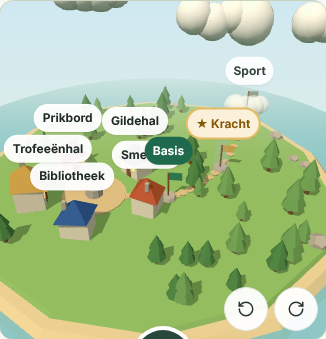
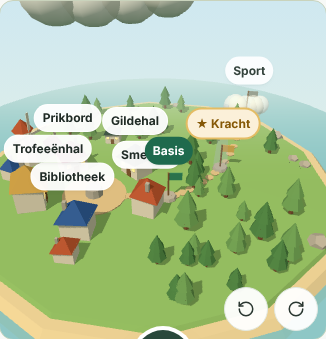
Village grows with progress: cottages per 5 workouts, boss pennants, windmill, fields, hero statue and lighthouse
Cosmetic only and never shrinks; a line under the village says what stands and the next step.

Claude-Session: https://claude.ai/code/session_01LX8STJNNDwUxbGDdeQr5p6

diff --git a/web/src/components/patient/Village3D.tsx b/web/src/components/patient/Village3D.tsx
@@ -5,6 +5,7 @@ import { OrbitControls } from 'three/examples/jsm/controls/OrbitControls.js';
 import { RotateCcw, RotateCw } from 'lucide-react';
 import { useI18n } from '@/lib/i18n';
 import { cn } from '@/lib/cn';
+import type { VillageGrowth } from '@shared/villageGrowth';
 
 /**
  * The village and the rehab path as a small 3D island (three.js, loaded only on the world map).
@@ -14,7 +15,7 @@ import { cn } from '@/lib/cn';
 
 export type VillageZone = { no: number; status: 'done' | 'current' | 'locked'; name: string };
 export type VillageBuilding = { key: string; label: string; to: string };
-type Props = { zones: VillageZone[]; heroZoneNo: number | null; buildings: VillageBuilding[]; onZone: (no: number) => void; heroColor?: string; className?: string };
+type Props = { zones: VillageZone[]; heroZoneNo: number | null; buildings: VillageBuilding[]; onZone: (no: number) => void; heroColor?: string; growth?: VillageGrowth; className?: string };
 
 const PALETTE = {
   grass: 0x8fbf6a, grassDark: 0x6e9e52, sand: 0xe6d3a3, water: 0x7cc4d8, path: 0xd9c08f, stone: 0xb8b2a6,
@@ -91,13 +92,13 @@ function rng(seed: number) {
   return () => ((s = (s * 16807) % 2147483647) - 1) / 2147483646;
 }
 
-export default function Village3D({ zones, heroZoneNo, buildings, onZone, heroColor = '#e4bc63', className }: Props) {
+export default function Village3D({ zones, heroZoneNo, buildings, onZone, heroColor = '#e4bc63', growth, className }: Props) {
   const { t } = useI18n();
   const host = useRef<HTMLDivElement>(null);
   const labels = useRef<Map<string, HTMLElement>>(new Map());
   const turnRef = useRef<(deg: number) => void>(() => {});
   const [state, setState] = useState<'ready' | 'nogl'>(() => (webglOk() ? 'ready' : 'nogl'));
-  const key = JSON.stringify([zones, heroZoneNo, buildings.map((b) => b.key)]);
+  const key = JSON.stringify([zones, heroZoneNo, buildings.map((b) => b.key), growth, heroColor]);
 
   useEffect(() => {
     const el = host.current;
@@ -206,8 +207,114 @@ export default function Village3D({ zones, heroZoneNo, buildings, onZone, heroCo
       }
     });
 
-    // Trees and rocks, away from the square and the path.
-    const near = (x: number, z: number) => Math.hypot(x + 2.6, z - 1.2) < 3.6 || pts.some((p) => Math.hypot(x - p.x, z - p.z) < 1.2) || Math.hypot(x, z) > 7.3;
+    // What the patient built so far (villageGrowth): cottages, pennants, windmill, fields, statue, lighthouse.
+    const taken: [number, number, number][] = [];
+    let blades: THREE.Group | null = null;
+    let lamp: THREE.Group | null = null;
+    if (growth) {
+      const pathNear = (x: number, z: number) => pts.some((p) => Math.hypot(x - p.x, z - p.z) < 1.3) || curve.getPoints(30).some((p) => Math.hypot(x - p.x, z - p.z) < 0.9);
+      for (let i = 0, made = 0; i < 80 && made < growth.houses; i++) {
+        const a = Math.PI * 0.55 + i * 0.62;
+        const r = 4.3 + (i % 3) * 0.55;
+        const x = -2.6 + Math.cos(a) * r;
+        const z = 1.2 + Math.sin(a) * r * 0.85;
+        if (Math.hypot(x, z) > 7 || pathNear(x, z) || taken.some(([tx, tz, tr]) => Math.hypot(x - tx, z - tz) < tr + 0.8)) continue;
+        const roofs = [0xb5532c, 0x2759a0, 0x8e3b5f, 0x29483c, 0xc9a14a];
+        const h = house(roofs[made % roofs.length], 0.62);
+        h.position.set(x, 0.2, z);
+        h.lookAt(-2.6, 0.2, 1.2);
+        world.add(h);
+        taken.push([x, z, 0.7]);
+        made++;
+      }
+      for (let i = 0; i < growth.pennants; i++) {
+        const a = (i / Math.max(growth.pennants, 1)) * Math.PI * 2;
+        const pole = new THREE.Group();
+        const stick = new THREE.Mesh(new THREE.CylinderGeometry(0.025, 0.025, 0.9, 5), mat(PALETTE.wood));
+        stick.position.y = 0.45;
+        const tri = new THREE.Mesh(new THREE.ConeGeometry(0.14, 0.34, 3), mat([0xc9a14a, 0xb5532c, 0x2759a0, 0x8e3b5f][i % 4]));
+        tri.rotation.z = -Math.PI / 2;
+        tri.position.set(0.17, 0.78, 0);
+        pole.add(stick, tri);
+        pole.position.set(-2.6 + Math.cos(a) * 1.55, 0.22, 1.2 + Math.sin(a) * 1.55);
+        world.add(pole);
+        flags.push(tri);
+      }
+      if (growth.windmill) {
+        const mill = new THREE.Group();
+        const tower = new THREE.Mesh(new THREE.CylinderGeometry(0.35, 0.55, 1.8, 8), mat(PALETTE.wall));
+        tower.position.y = 0.9;
+        const cap = new THREE.Mesh(new THREE.ConeGeometry(0.5, 0.55, 8), mat(0xb5532c));
+        cap.position.y = 2.05;
+        blades = new THREE.Group();
+        for (let k = 0; k < 4; k++) {
+          const b = new THREE.Mesh(new THREE.BoxGeometry(0.14, 1.1, 0.03), mat(0xf6efe2));
+          b.position.y = 0.55;
+          const arm = new THREE.Group();
+          arm.add(b);
+          arm.rotation.z = (k * Math.PI) / 2;
+          blades.add(arm);
+        }
+        blades.position.set(0, 1.6, 0.42);
+        mill.add(tower, cap, blades);
+        mill.position.set(-6.0, 0.2, -1.6);
+        mill.lookAt(0, 0.2, 2);
+        mill.traverse((o) => { o.castShadow = true; });
+        world.add(mill);
+        taken.push([-6.0, -1.6, 1]);
+      }
+      if (growth.fields) {
+        const stripes = [0xd9b65a, 0x9cc46b, 0xd9b65a, 0x9cc46b];
+        stripes.forEach((c, k) => {
+          const f = new THREE.Mesh(new THREE.BoxGeometry(1.8, 0.05, 0.38), mat(c));
+          f.position.set(-4.6, 0.23, 4.5 + k * 0.42);
+          f.receiveShadow = true;
+          world.add(f);
+        });
+        taken.push([-4.6, 5.1, 1.3]);
+      }
+      if (growth.statue) {
+        const st = new THREE.Group();
+        const ped = new THREE.Mesh(new THREE.BoxGeometry(0.45, 0.35, 0.45), mat(PALETTE.stone));
+        ped.position.y = 0.4;
+        const goldM = mat(new THREE.Color(heroColor).getHex(), { metalness: 0.7, roughness: 0.3 });
+        const body = new THREE.Mesh(new THREE.CylinderGeometry(0.1, 0.14, 0.5, 8), goldM);
+        body.position.y = 0.83;
+        const head = new THREE.Mesh(new THREE.SphereGeometry(0.1, 10, 8), goldM);
+        head.position.y = 1.16;
+        const arm = new THREE.Mesh(new THREE.CylinderGeometry(0.035, 0.035, 0.45, 6), goldM);
+        arm.position.set(0.14, 1.12, 0);
+        arm.rotation.z = -0.4;
+        st.add(ped, body, head, arm);
+        st.position.set(-2.6 + 0.75, 0.2, 1.2 - 0.6);
+        st.traverse((o) => { o.castShadow = true; });
+        world.add(st);
+      }
+      if (growth.lighthouse) {
+        const lh = new THREE.Group();
+        const tower = new THREE.Mesh(new THREE.CylinderGeometry(0.28, 0.45, 2.4, 10), mat(0xf6efe2));
+        tower.position.y = 1.2;
+        const stripe = new THREE.Mesh(new THREE.CylinderGeometry(0.36, 0.38, 0.35, 10), mat(0xb5532c));
+        stripe.position.y = 1.2;
+        lamp = new THREE.Group();
+        const glow = new THREE.Mesh(new THREE.SphereGeometry(0.22, 12, 10), new THREE.MeshStandardMaterial({ color: 0xfff1b8, emissive: 0xffd36b, emissiveIntensity: 1.2 }));
+        const beam = new THREE.Mesh(new THREE.ConeGeometry(0.4, 2.2, 12, 1, true), new THREE.MeshBasicMaterial({ color: 0xfff1b8, transparent: true, opacity: 0.25, side: THREE.DoubleSide, depthWrite: false }));
+        beam.rotation.z = Math.PI / 2;
+        beam.position.x = 1.1;
+        lamp.add(glow, beam);
+        lamp.position.y = 2.55;
+        const roofL = new THREE.Mesh(new THREE.ConeGeometry(0.32, 0.4, 10), mat(0xb5532c));
+        roofL.position.y = 2.95;
+        lh.add(tower, stripe, lamp, roofL);
+        lh.position.set(5.9, 0.2, 3.9);
+        lh.traverse((o) => { o.castShadow = true; });
+        world.add(lh);
+        taken.push([5.9, 3.9, 0.8]);
+      }
+    }
+
+    // Trees and rocks, away from the square, the path and what was built.
+    const near = (x: number, z: number) => Math.hypot(x + 2.6, z - 1.2) < 3.6 || pts.some((p) => Math.hypot(x - p.x, z - p.z) < 1.2) || Math.hypot(x, z) > 7.3 || taken.some(([tx, tz, tr]) => Math.hypot(x - tx, z - tz) < tr + 0.5);
     for (let i = 0, placed = 0; i < 400 && placed < 34; i++) {
       const a = R() * Math.PI * 2;
       const r = 2 + R() * 5.5;
@@ -235,7 +342,11 @@ export default function Village3D({ zones, heroZoneNo, buildings, onZone, heroCo
         puff.position.set(k * 0.7, R() * 0.3, R() * 0.4);
         c.add(puff);
       }
-      c.position.set(-9 + i * 5, 6 + R() * 1.5, -6 + R() * 6);
+      // High up on a ring around the island, so a cloud never drifts in front of the camera.
+      c.userData.angle = (i / 4) * Math.PI * 2 + R();
+      c.userData.radius = 8 + R() * 2;
+      c.position.set(Math.cos(c.userData.angle) * c.userData.radius, 8.6 + R() * 1.2, Math.sin(c.userData.angle) * c.userData.radius);
+      c.scale.setScalar(0.8);
       scene.add(c);
       clouds.push(c);
     }
@@ -305,10 +416,16 @@ export default function Village3D({ zones, heroZoneNo, buildings, onZone, heroCo
       const tt = clock.getElapsedTime();
       if (!reduce) {
         flags.forEach((f, i) => (f.rotation.y = Math.sin(tt * 2 + i) * 0.25));
-        clouds.forEach((c, i) => (c.position.x = ((c.position.x + 0.004 * (i + 1) + 12) % 24) - 12));
+        clouds.forEach((c, i) => {
+          const a = c.userData.angle + tt * 0.01 * (1 + i * 0.2);
+          c.position.x = Math.cos(a) * c.userData.radius;
+          c.position.z = Math.sin(a) * c.userData.radius;
+        });
         fogs.forEach((f, i) => (f.position.y = Math.sin(tt * 0.8 + i) * 0.08));
         if (beacon) (beacon.material as THREE.MeshBasicMaterial).opacity = 0.25 + Math.sin(tt * 2.2) * 0.12;
         water.position.y = -0.35 + Math.sin(tt * 0.9) * 0.02;
+        if (blades) blades.rotation.z = tt * 0.9;
+        if (lamp) lamp.rotation.y = tt * 0.8;
       }
       controls.update();
       renderer.render(scene, camera);

diff --git a/web/src/pages/patient/WorldMapPage.tsx b/web/src/pages/patient/WorldMapPage.tsx
@@ -16,6 +16,7 @@ import type { HeroState } from '@/lib/types';
 import { GuildRaidCard } from '@/components/patient/GuildRaid';
 import { useHero } from '@/pages/patient/HeroPages';
 import { levelTier } from '@shared/hero';
+import { villageGrowth } from '@shared/villageGrowth';
 // three.js only loads on this page.
 const Village3D = lazy(() => import('@/components/patient/Village3D'));
 
@@ -82,6 +83,11 @@ export function WorldMapPage() {
     });
   }, [data, heroQ.data]);
   const buildings = villageBuildings({ hero: true, atlas: true, mission: true, guild: true });
+  // The village grows with completed workouts, defeated bosses and the hero level (cosmetic only).
+  const growth = useMemo(() => {
+    if (!data || !heroQ.data?.level) return null;
+    return villageGrowth({ workouts: data.zones.reduce((n, z) => n + z.nodes, 0), bossesDefeated: heroQ.data.weekly?.bossesDefeated ?? 0, level: heroQ.data.level.level });
+  }, [data, heroQ.data]);
 
   if (world.isError) return <ErrorState error={world.error} onRetry={() => world.refetch()} />;
   if (!data) {
@@ -124,8 +130,10 @@ export function WorldMapPage() {
             buildings={buildings.map((b) => ({ key: b.key, to: b.to, label: t(VILLAGE_LABEL[b.key][0], VILLAGE_LABEL[b.key][1]) }))}
             onZone={(no) => setZoneNo(no)}
             heroColor={heroQ.data?.level ? levelTier(heroQ.data.level.level).glow : undefined}
+            growth={growth ?? undefined}
           />
         </Suspense>
+        {growth && <VillageGrowthLine g={growth} />}
       </section>
 
       <section aria-labelledby="village-heading" className="overflow-hidden rounded-2xl border border-[#C9D3BC] bg-[#E7EFE3]">
@@ -429,4 +437,30 @@ function heroLook(d: HeroState) {
     body: d.metrics ? bodyShape(d.metrics, d.hero!.frame) : null,
     photo: d.customPhoto ?? null,
   };
+}
+
+/** One line under the 3D village: what has been built and the next step. */
+function VillageGrowthLine({ g }: { g: ReturnType<typeof villageGrowth> }) {
+  const { t } = useI18n();
+  const built = [
+    g.houses > 0 && t(`${g.houses} ${g.houses === 1 ? 'huisje' : 'huisjes'}`, `${g.houses} ${g.houses === 1 ? 'cottage' : 'cottages'}`),
+    g.pennants > 0 && t(`${g.pennants} ${g.pennants === 1 ? 'bazenvlag' : 'bazenvlaggen'}`, `${g.pennants} boss ${g.pennants === 1 ? 'pennant' : 'pennants'}`),
+    g.windmill && t('molen', 'windmill'),
+    g.fields && t('akkers', 'fields'),
+    g.statue && t('standbeeld', 'statue'),
+    g.lighthouse && t('vuurtoren', 'lighthouse'),
+  ].filter(Boolean) as string[];
+  const name = (k: NonNullable<typeof g.next>['kind']) => ({ house: t('een huisje', 'a cottage'), windmill: t('de molen', 'the windmill'), fields: t('akkers', 'fields'), statue: t('een standbeeld van je held', 'a statue of your hero'), lighthouse: t('de vuurtoren', 'the lighthouse') })[k];
+  const next = g.next
+    ? g.next.workouts !== undefined
+      ? t(`Nog ${g.next.workouts} ${g.next.workouts === 1 ? 'training' : 'trainingen'} tot ${name(g.next.kind)}.`, `${g.next.workouts} more ${g.next.workouts === 1 ? 'workout' : 'workouts'} to ${name(g.next.kind)}.`)
+      : t(`Nog ${g.next.levels} ${g.next.levels === 1 ? 'level' : 'levels'} tot ${name(g.next.kind)}.`, `${g.next.levels} more ${g.next.levels === 1 ? 'level' : 'levels'} to ${name(g.next.kind)}.`)
+    : t('Je dorp is helemaal af!', 'Your village is complete!');
+  return (
+    <p className="mt-2 rounded-xl bg-[#F3F7F1] px-3 py-2 text-[13.5px] leading-snug text-ink-800" data-testid="village-growth">
+      <strong>{t('Je dorp groeit', 'Your village grows')}</strong>
+      {built.length > 0 ? `: ${built.join(', ')}. ` : t(': nog leeg. ', ': still empty. ')}
+      {next}
+    </p>
+  );
 }

diff --git a/shared/villageGrowth.ts b/shared/villageGrowth.ts
@@ -1,0 +1,49 @@
+/**
+ * The 3D village grows with what the patient already did. Purely cosmetic: it never unlocks a zone
+ * and never shrinks (a rest day or pain costs nothing).
+ */
+export type VillageProgress = { workouts: number; bossesDefeated: number; level: number };
+
+export const HOUSE_EVERY = 5; // one extra cottage per 5 completed workouts
+export const MAX_HOUSES = 10;
+export const MAX_PENNANTS = 8;
+
+export type VillageGrowth = {
+  houses: number;
+  pennants: number;
+  windmill: boolean;
+  fields: boolean;
+  statue: boolean;
+  lighthouse: boolean;
+  /** What the next step is and how far away, or null when everything is built. */
+  next: { kind: 'house' | 'windmill' | 'fields' | 'statue' | 'lighthouse'; workouts?: number; levels?: number } | null;
+};
+
+export const WINDMILL_AT = 15; // workouts
+export const FIELDS_AT = 30; // workouts
+export const STATUE_LEVEL = 10;
+export const LIGHTHOUSE_LEVEL = 20;
+
+export function villageGrowth(p: VillageProgress): VillageGrowth {
+  const w = Math.max(0, Math.floor(p.workouts));
+  const houses = Math.min(MAX_HOUSES, Math.floor(w / HOUSE_EVERY));
+  const g: VillageGrowth = {
+    houses,
+    pennants: Math.min(MAX_PENNANTS, Math.max(0, p.bossesDefeated)),
+    windmill: w >= WINDMILL_AT,
+    fields: w >= FIELDS_AT,
+    statue: p.level >= STATUE_LEVEL,
+    lighthouse: p.level >= LIGHTHOUSE_LEVEL,
+    next: null,
+  };
+  const options: NonNullable<VillageGrowth['next']>[] = [];
+  if (houses < MAX_HOUSES) options.push({ kind: 'house', workouts: HOUSE_EVERY * (houses + 1) - w });
+  if (!g.windmill) options.push({ kind: 'windmill', workouts: WINDMILL_AT - w });
+  if (!g.fields) options.push({ kind: 'fields', workouts: FIELDS_AT - w });
+  if (!g.statue) options.push({ kind: 'statue', levels: STATUE_LEVEL - p.level });
+  else if (!g.lighthouse) options.push({ kind: 'lighthouse', levels: LIGHTHOUSE_LEVEL - p.level });
+  // Nearest workout goal first; a level goal only when no workout goal is left.
+  const byWorkouts = options.filter((o) => o.workouts !== undefined).sort((a, b) => a.workouts! - b.workouts! || Number(a.kind === 'house') - Number(b.kind === 'house'));
+  g.next = byWorkouts[0] ?? options[0] ?? null;
+  return g;
+}

diff --git a/web/src/components/app/WhatsNew.tsx b/web/src/components/app/WhatsNew.tsx
@@ -29,6 +29,7 @@ const STAFF: Item[] = [
   { nl: 'Reageren op een training bij "Markeer als gezien"; de patiënt krijgt je reactie.', en: 'Reply to a workout with "Mark as seen"; the patient gets your reply.' },
 ];
 const PATIENT: Item[] = [
+  { nl: 'Je dorp groeit mee: een huisje per 5 trainingen, een vlag per verslagen baas, een molen, akkers, een standbeeld en een vuurtoren.', en: 'Your village grows with you: a cottage per 5 workouts, a pennant per defeated boss, a windmill, fields, a statue and a lighthouse.', to: '/p/wereld' },
   { nl: 'Je wereldkaart is nu een 3D-eiland met je dorp en je route. Draai rond en tik op een gebouw of zone.', en: 'Your world map is now a 3D island with your village and route. Turn it and tap a building or zone.', to: '/p/wereld' },
   { nl: 'Na een training: je held juicht, XP en muntjes tellen op, en een level-up krijgt een schild in de kleur van je rang.', en: 'After a workout: your hero cheers, XP and coins count up, and a level-up gets a shield in your rank colour.' },
   { nl: 'Laat een oefening voorlezen met de knop "Lees voor" in de training.', en: 'Have an exercise read aloud with the "Read aloud" button in the workout.' },
@@ -44,7 +45,7 @@ const PATIENT: Item[] = [
   { nl: 'Op Voortgang zie je hoe zwaar en pijnlijk je trainingen waren, in gewone taal.', en: 'Progress shows how hard and painful your workouts were, in plain words.', to: '/p/voortgang' },
   { nl: 'Nieuwe quizvragen over welke spier het werk overneemt als een andere zwak is.', en: 'New quiz questions on which muscle takes over when another is weak.' },
 ];
-const VERSION = '2026-11-11a';
+const VERSION = '2026-11-11b';
 const KEY = 'fp.whatsnew.v1';
 
 function seen() {

diff --git a/shared/villageGrowth.test.ts b/shared/villageGrowth.test.ts
@@ -1,0 +1,25 @@
+import { describe, expect, it } from 'vitest';
+import { villageGrowth } from './villageGrowth';
+
+describe('village growth', () => {
+  it('starts empty and points to the first cottage', () => {
+    const g = villageGrowth({ workouts: 0, bossesDefeated: 0, level: 1 });
+    expect(g).toMatchObject({ houses: 0, pennants: 0, windmill: false, fields: false, statue: false, lighthouse: false });
+    expect(g.next).toEqual({ kind: 'house', workouts: 5 });
+  });
+
+  it('grows with workouts, bosses and level, within limits', () => {
+    const g = villageGrowth({ workouts: 32, bossesDefeated: 12, level: 12 });
+    expect(g).toMatchObject({ houses: 6, pennants: 8, windmill: true, fields: true, statue: true, lighthouse: false });
+    expect(g.next).toEqual({ kind: 'house', workouts: 3 });
+    expect(villageGrowth({ workouts: 500, bossesDefeated: 0, level: 25 })).toMatchObject({ houses: 10, lighthouse: true, next: null });
+  });
+
+  it('the windmill comes before the next cottage when it is nearer', () => {
+    expect(villageGrowth({ workouts: 14, bossesDefeated: 0, level: 3 }).next).toEqual({ kind: 'windmill', workouts: 1 });
+  });
+
+  it('never goes negative', () => {
+    expect(villageGrowth({ workouts: -3, bossesDefeated: -1, level: 0 })).toMatchObject({ houses: 0, pennants: 0 });
+  });
+});

diff --git a/e2e/world-map.spec.ts b/e2e/world-map.spec.ts
@@ -58,6 +58,7 @@ test('world map and guild raid fit a 360 px phone and do not unlock phases', asy
     // The 3D village: buildings and zones are real links/buttons on top of the scene.
     await expect(patient.getByTestId('village-3d')).toHaveAttribute('data-state', 'ready', { timeout: 20_000 });
     await expect(patient.getByTestId('village-3d').getByRole('link', { name: 'Smederij' })).toBeAttached();
+    await expect(patient.getByTestId('village-growth')).toContainText('Je dorp groeit');
     await patient.waitForTimeout(800);
     await patient.getByTestId('village-3d').screenshot({ path: `${SHOTS}/village-3d-360.png` });
     await expect(patient.getByRole('button', { name: /Dorp/ })).toBeVisible();

diff --git a/docs/MASTERPLAN.md b/docs/MASTERPLAN.md
@@ -278,6 +278,11 @@ Afspraak eigenaar: geen gratis aanbod namens de praktijk (geen gratis tests, pro
     met dorp, pad, zonevlaggen, mist over vergrendelde zones en een baken bij je held; namen zijn echte
     knoppen (toetsenbord, schermlezer). Animaties stoppen bij "beweging beperken".
 
+91. [x] **Dorp groeit mee** (11 nov): per 5 afgeronde trainingen een huisje (max 10), per verslagen
+    baas een vlaggetje (max 8), molen bij 15 en akkers bij 30 trainingen, standbeeld van je held vanaf
+    level 10 en een vuurtoren vanaf level 20. Onder het dorp staat wat er al staat en wat de volgende
+    stap is. Alleen cosmetisch; krimpt nooit (`shared/villageGrowth.ts`).
+
 ## Vraagt jouw beslissing (Claude wacht hierop)
 - Render Starter (betaald) en een vaste schijf voor video's (`STORAGE_DIR`).
 - Testers uitnodigen (zie `docs/TESTERS.md`): sinds 5 nov nog geen logins op de live app.
